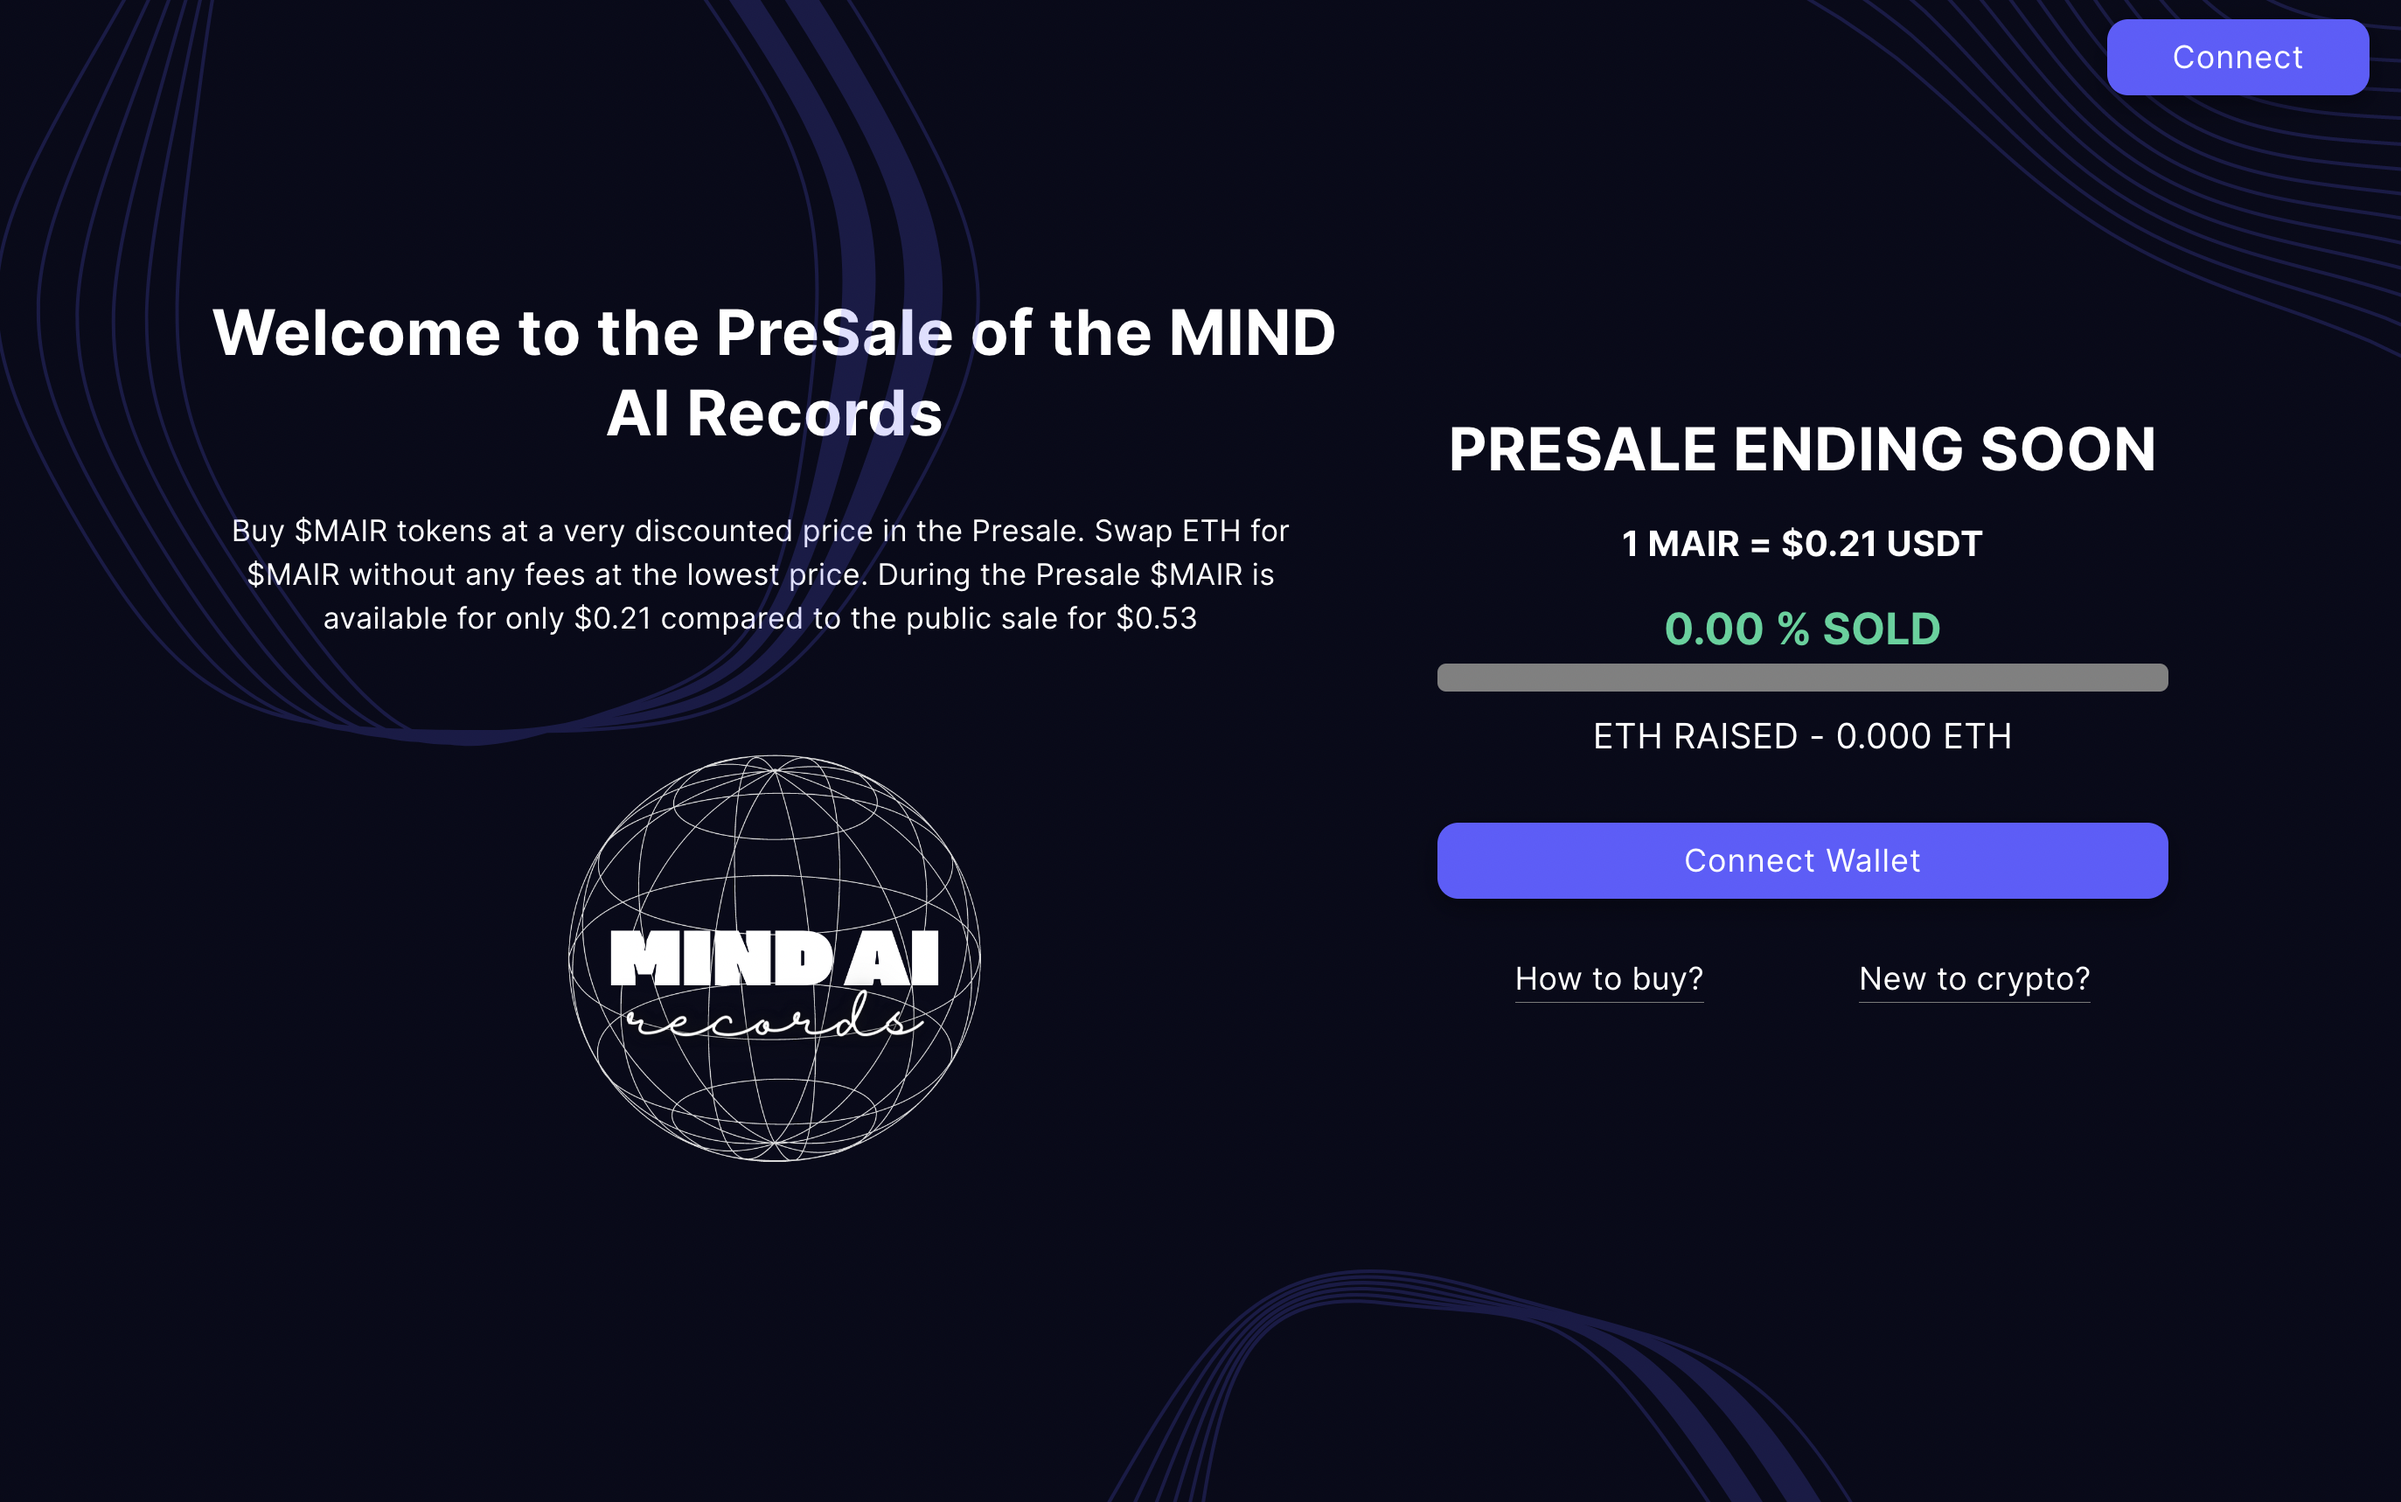
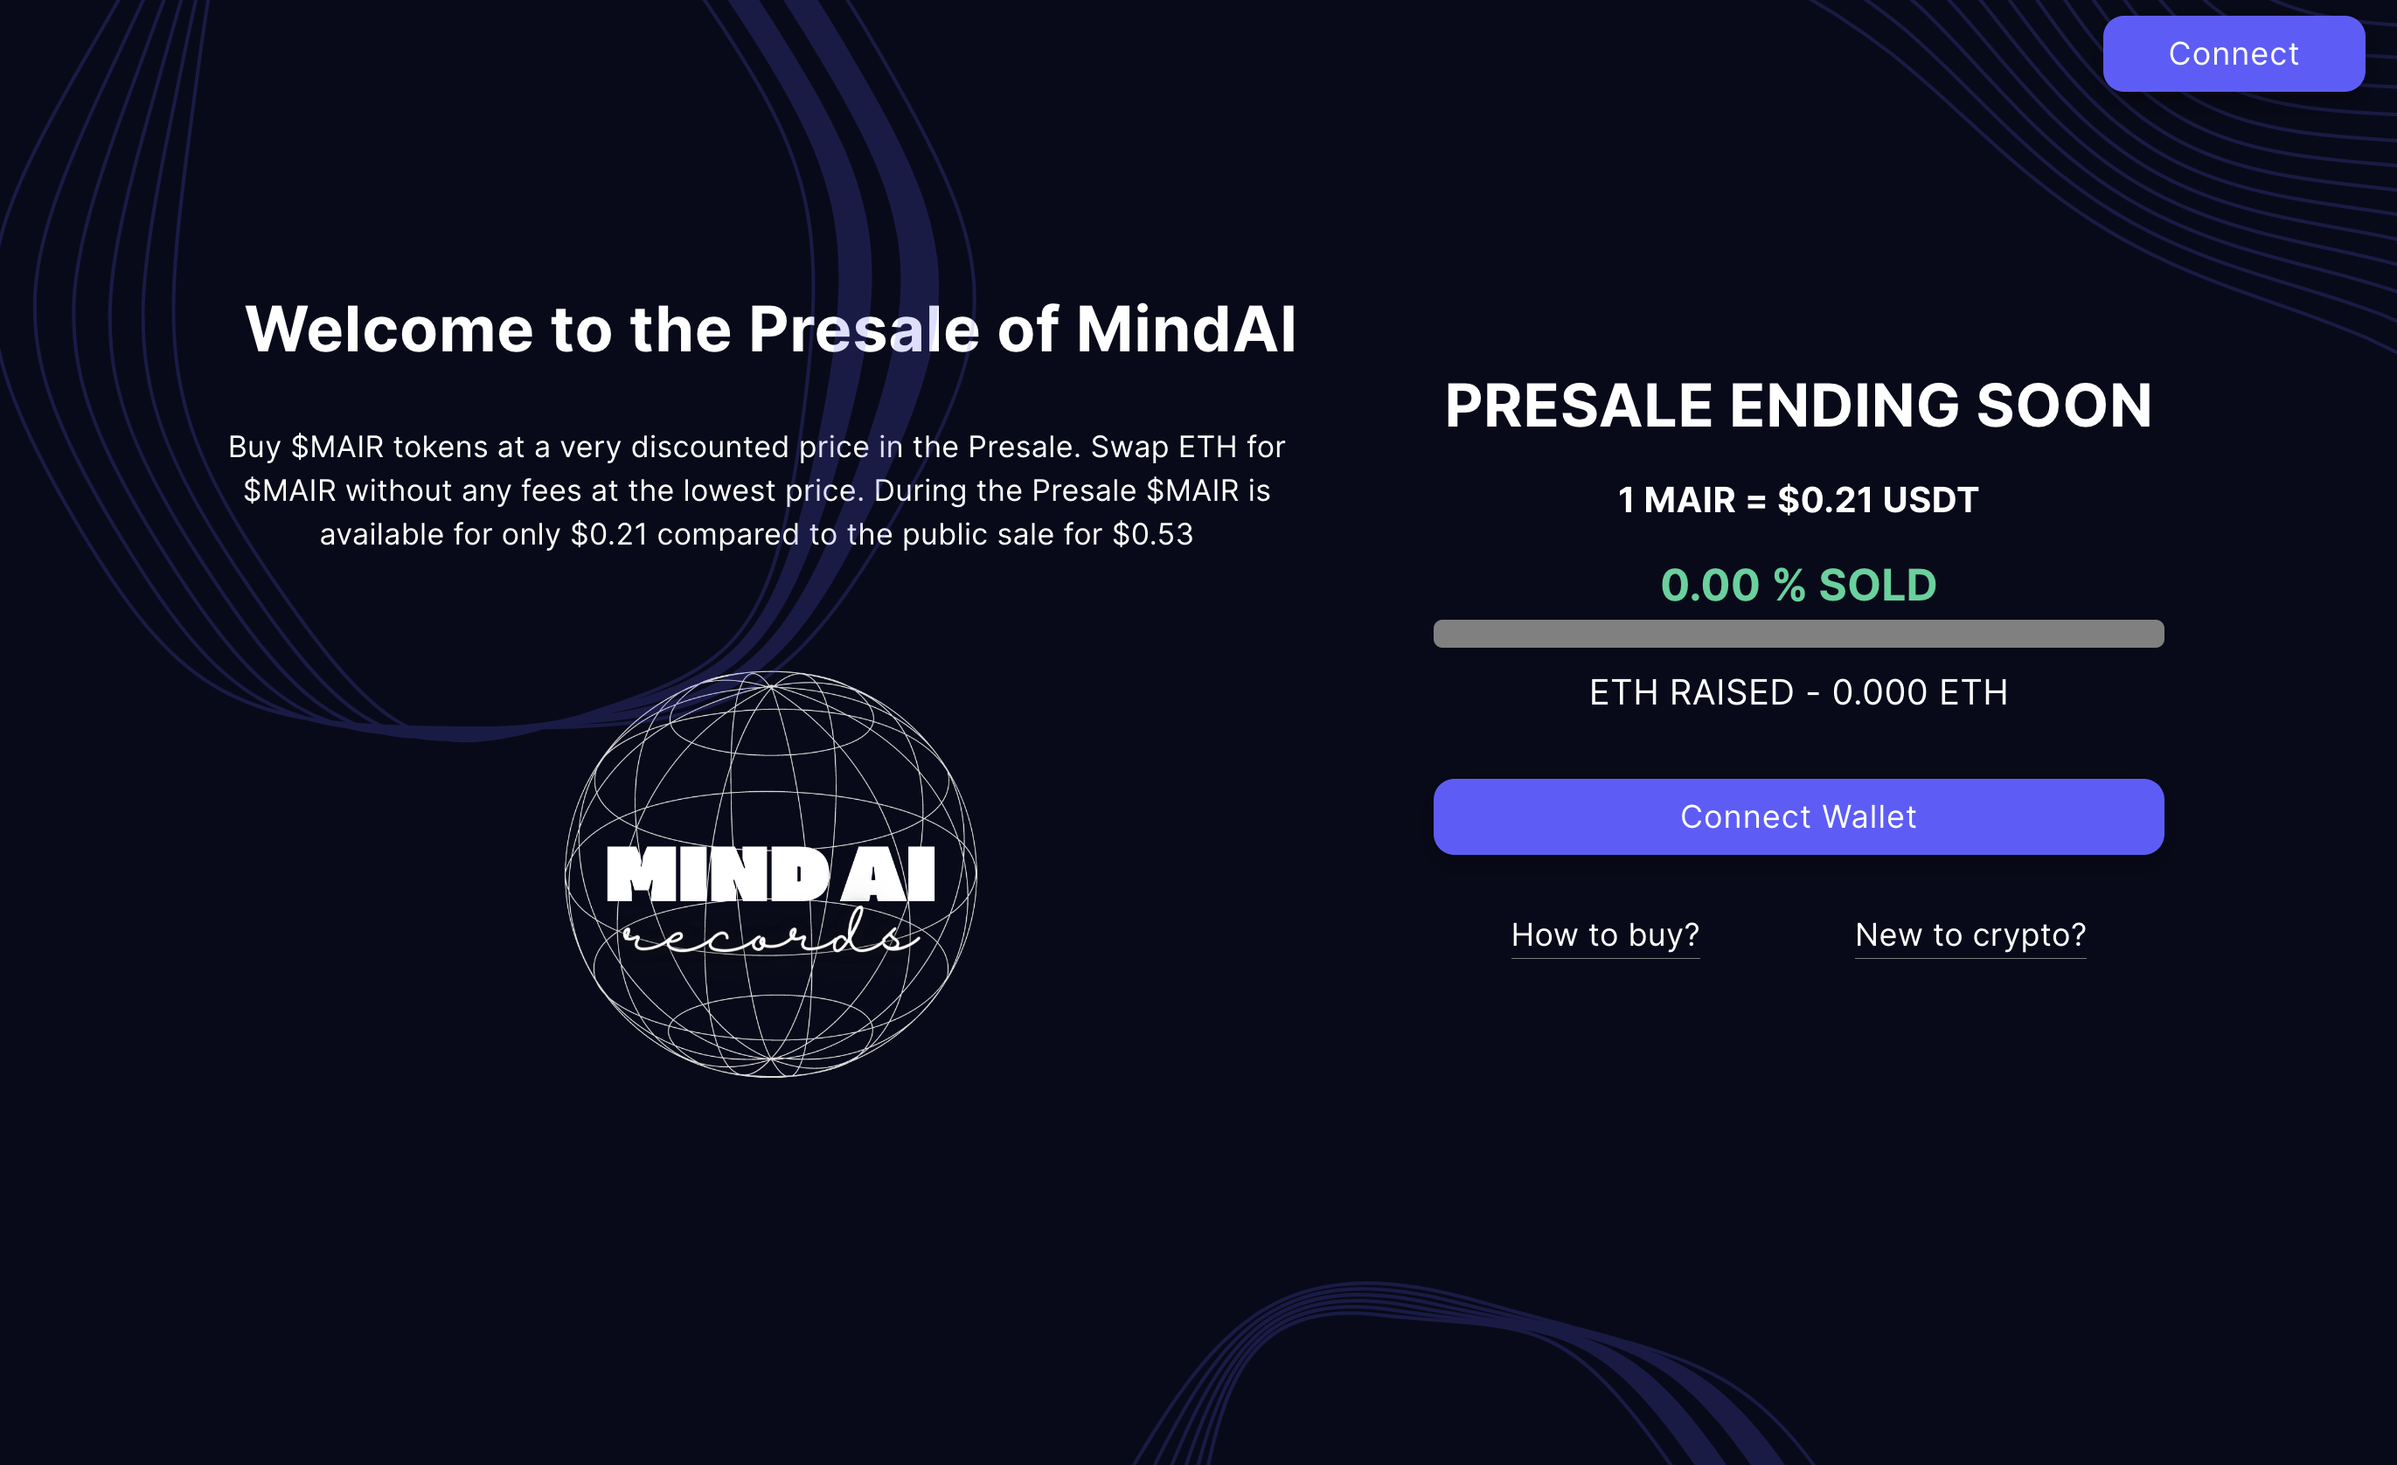
More changes

diff --git a/components/features.tsx b/components/features.tsx
@@ -7,7 +7,7 @@ export default function Features() {
           <div className="max-w-3xl mx-auto text-center pb-12 md:pb-20">
             <h2 className="h2 mb-4">TOKENOMICS</h2>
             <p className="text-xl text-gray-400">
-              After the pre-sale funds have been gathered, they will be utilized
+              After the Presale funds have been gathered, they will be utilized
               in a strategic manner to ensure the long-term success and growth
               of the project. The project team will work diligently to ensure
               that the funds are used effectively and efficiently to build a
@@ -56,7 +56,7 @@ export default function Features() {
                 <span className="text-emerald-400">20%</span> Token Distribution
               </h4>
               <p className="text-lg text-gray-400 text-center">
-                Allocate 20% of tokens for distribution to pre-sale investors,
+                Allocate 20% of tokens for distribution to Presale investors,
                 with a vesting period of 6 months.
               </p>
             </div>
@@ -98,7 +98,7 @@ export default function Features() {
                 <span className="text-emerald-400">10%</span> Community Building
               </h4>
               <p className="text-lg text-gray-400 text-center">
-                Allocate 10% of the pre-sale funds to building the project
+                Allocate 10% of the Presale funds to building the project
                 community. This could include hosting meetups, webinars, and
                 other events to engage with the community and build awareness of
                 the project.
@@ -153,7 +153,7 @@ export default function Features() {
                 <span className="text-emerald-400">30%</span> Marketing Strategy
               </h4>
               <p className="text-lg text-gray-400 text-center">
-                Allocate 30% of the pre-sale funds to marketing and development
+                Allocate 30% of the Presale funds to marketing and development
                 activities. This could include advertising, social media
                 campaigns, and development of the project roadmap.
               </p>
@@ -200,7 +200,7 @@ export default function Features() {
                 <span className="text-emerald-400">5%</span> Token Burn
               </h4>
               <p className="text-lg text-gray-400 text-center">
-                Burn 5% of the pre-sale tokens to reduce the supply and increase
+                Burn 5% of the Presale tokens to reduce the supply and increase
                 the value of the remaining tokens.
               </p>
             </div>
@@ -244,7 +244,7 @@ export default function Features() {
                 Provision
               </h4>
               <p className="text-lg text-gray-400 text-center">
-                Allocate 20% of the pre-sale funds to liquidity provision on
+                Allocate 20% of the Presale funds to liquidity provision on
                 decentralized exchanges (DEXs). This can help to ensure that the
                 token is easily accessible and tradeable.
               </p>
@@ -295,10 +295,10 @@ export default function Features() {
                 <span className="text-emerald-400">5%</span> Audit and Security
               </h4>
               <p className="text-lg text-gray-400 text-center">
-                Allocate 5% of the pre-sale funds to audit and security
-                measures. This could include smart contract audits, penetration
-                testing, and other security measures to ensure the safety and
-                security of the project.
+                Allocate 5% of the Presale funds to audit and security measures.
+                This could include smart contract audits, penetration testing,
+                and other security measures to ensure the safety and security of
+                the project.
               </p>
             </div>
           </div>

diff --git a/components/hero.tsx b/components/hero.tsx
@@ -54,10 +54,10 @@ export default function Hero() {
               data-aos="fade-up"
               data-aos-delay="200"
             >
-              Pre-sale is coming soon. Buy $MAIR tokens at a very discounted
-              price in the Pre-sale. Swap ETH for $MAIR without any fees at the
-              lowest price. During the Pre-sale $MAIR is available for only
-              $0.21 compared to the public sale for $0.53
+              Presale is coming soon. Buy $MAIR tokens at a very discounted
+              price in the Presale. Swap ETH for $MAIR without any fees at the
+              lowest price. During the Presale $MAIR is available for only $0.21
+              compared to the public sale for $0.53
             </p>
             <div className="max-w-xs mx-auto sm:max-w-none sm:flex sm:justify-center">
               <div data-aos="fade-up" data-aos-delay="400">
@@ -65,7 +65,7 @@ export default function Hero() {
                   className="btn text-white bg-purple-600 hover:bg-purple-700 w-full mb-4 sm:w-auto sm:mb-0 rounded-lg"
                   href="https://mindaiapp.netlify.app/"
                 >
-                  Join Pre-sale
+                  Join Presale
                 </a>
               </div>
               <div data-aos="fade-up" data-aos-delay="600">

diff --git a/components/zigzag.tsx b/components/zigzag.tsx
@@ -46,9 +46,9 @@ export default function Zigzag() {
               >
                 <div className="md:pr-4 lg:pr-12 xl:pr-16">
                   <div className="font-architects-daughter text-xl text-purple-600 mb-2">
-                    Pre-sale is live
+                    Presale is live
                   </div>
-                  <h3 className="h3 mb-3">Participate in our Pre-sale</h3>
+                  <h3 className="h3 mb-3">Participate in our Presale</h3>
                   <p className="text-xl text-gray-400 mb-4">
                     Swap USDT or ETH for $MAIR with 0 fees for only $0.21
                     compared to the public sale for $0.53.
@@ -62,7 +62,7 @@ export default function Zigzag() {
                       >
                         <path d="M10.28 2.28L3.989 8.575 1.695 6.28A1 1 0 00.28 7.695l3 3a1 1 0 001.414 0l7-7A1 1 0 0010.28 2.28z" />
                       </svg>
-                      <span>Pre-sale coming soon!</span>
+                      <span>Presale coming soon!</span>
                     </li>
                     <li className="flex items-center mb-2">
                       <svg

diff --git a/components/ui/header.tsx b/components/ui/header.tsx
@@ -30,7 +30,7 @@ export default function Header() {
                   href="https://mindaiapp.netlify.app/"
                   className="font-medium text-purple-600 hover:text-gray-200 px-4 py-3 flex items-center transition duration-150 ease-in-out"
                 >
-                  Pre-sale
+                  Presale
                 </Link>
               </li>
               <li>

diff --git a/components/banner.tsx b/components/banner.tsx
@@ -17,7 +17,7 @@ export default function Banner() {
                 target="_blank"
                 rel="noreferrer"
               >
-                Go to Live Pre-sale now!
+                Go to Live Presale now!
               </a>
             </div>
             <button
